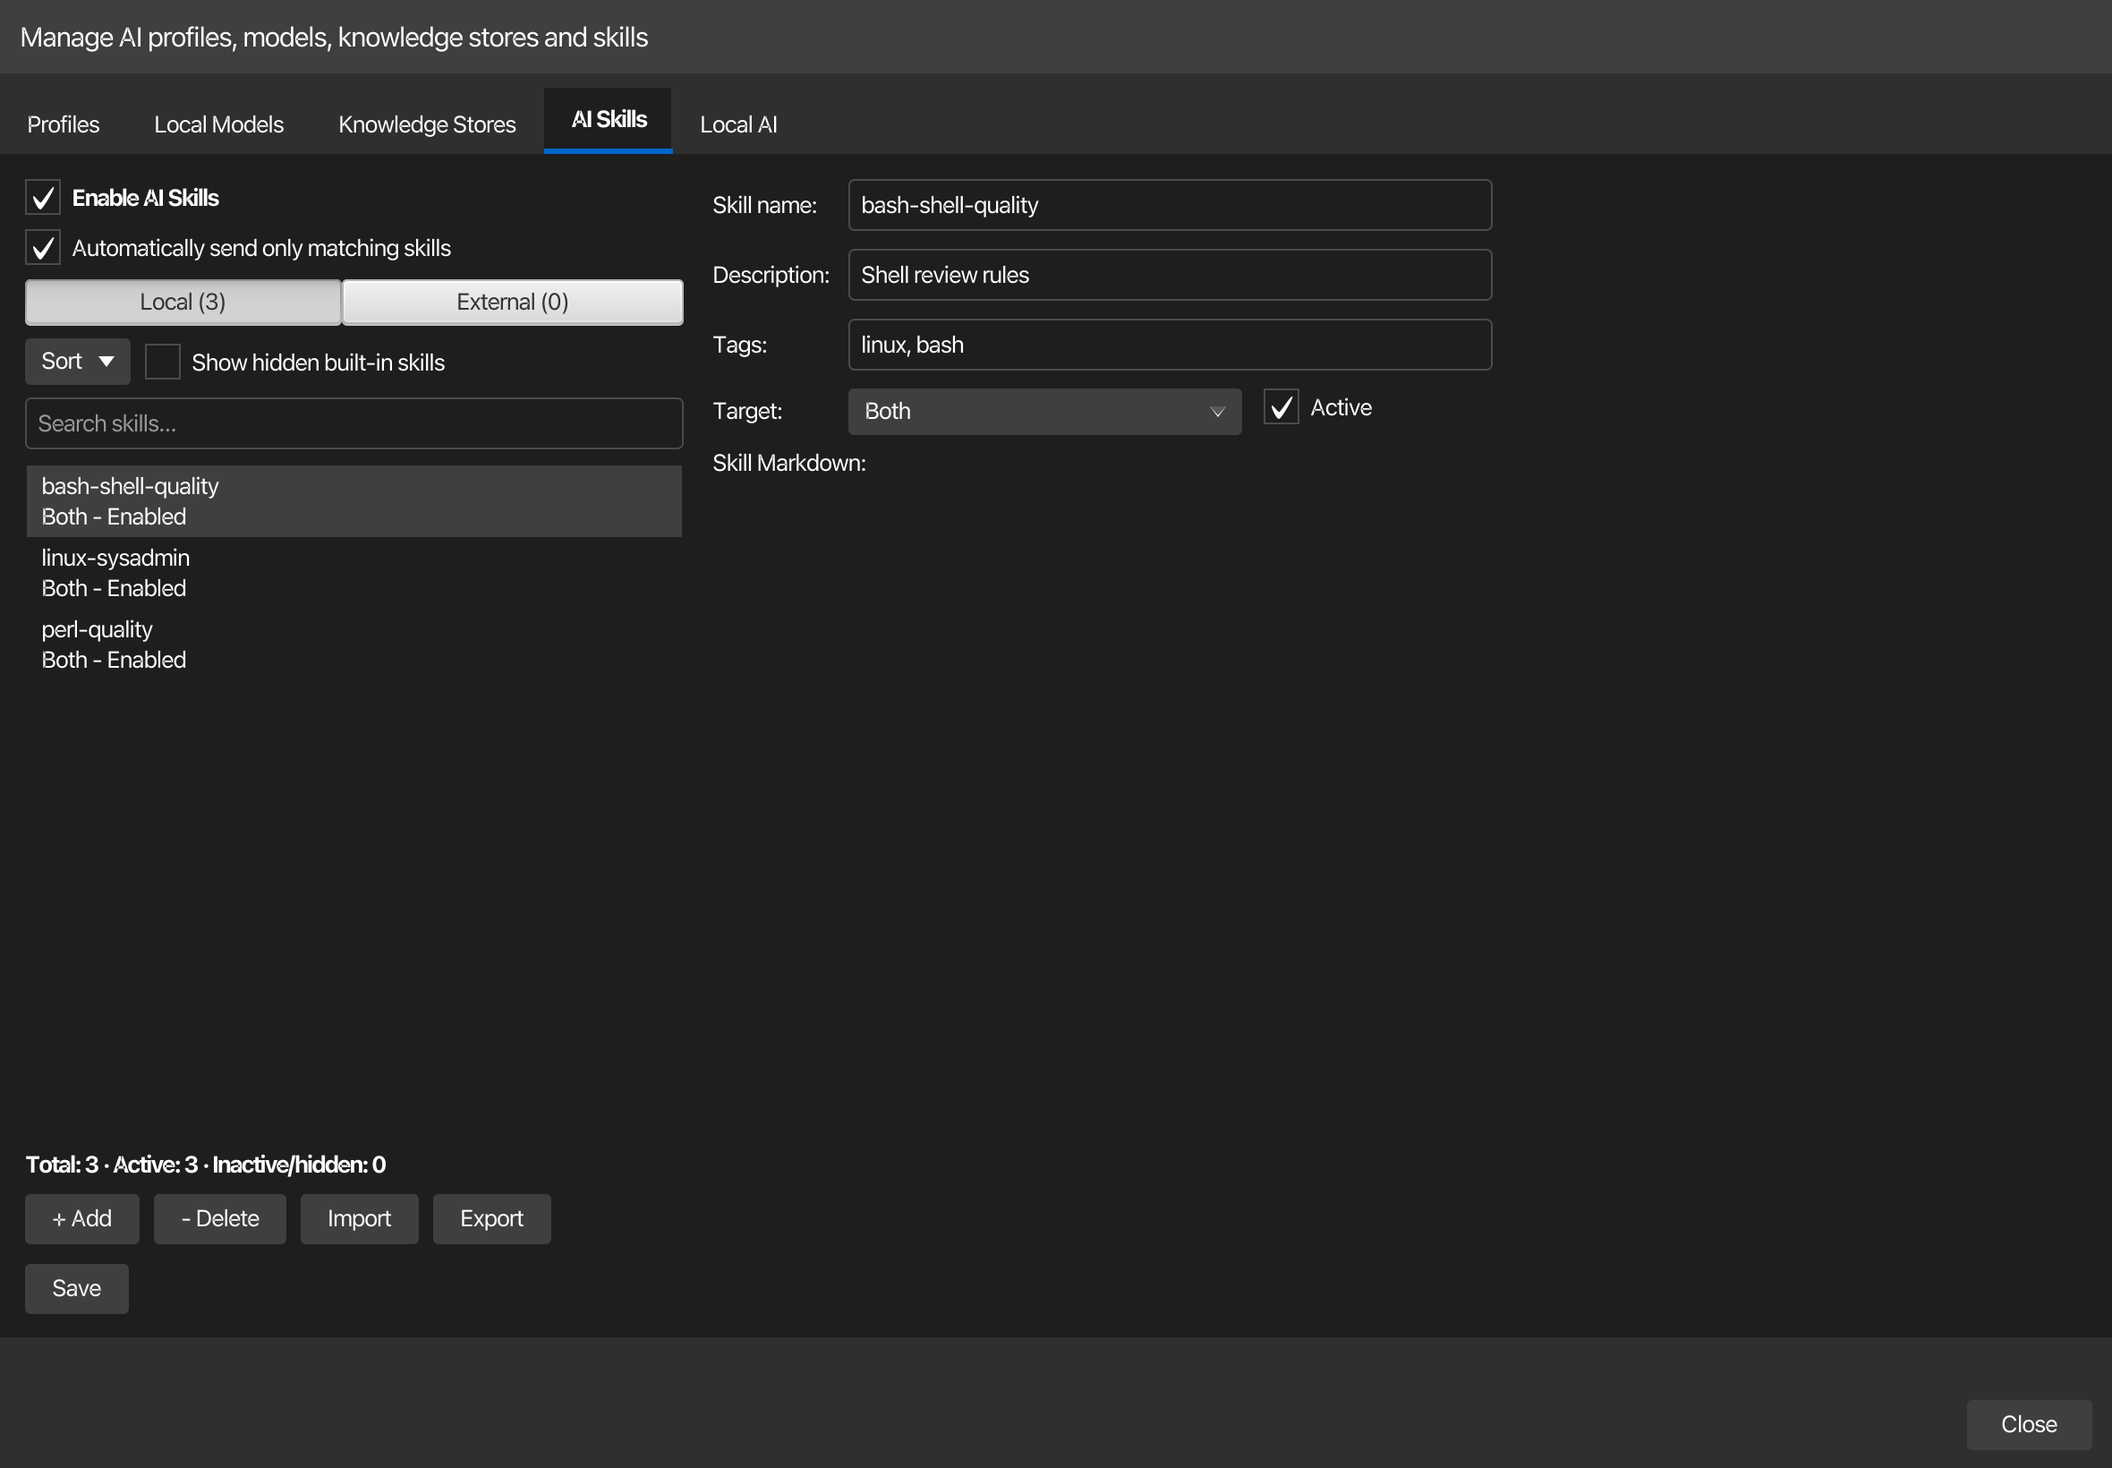
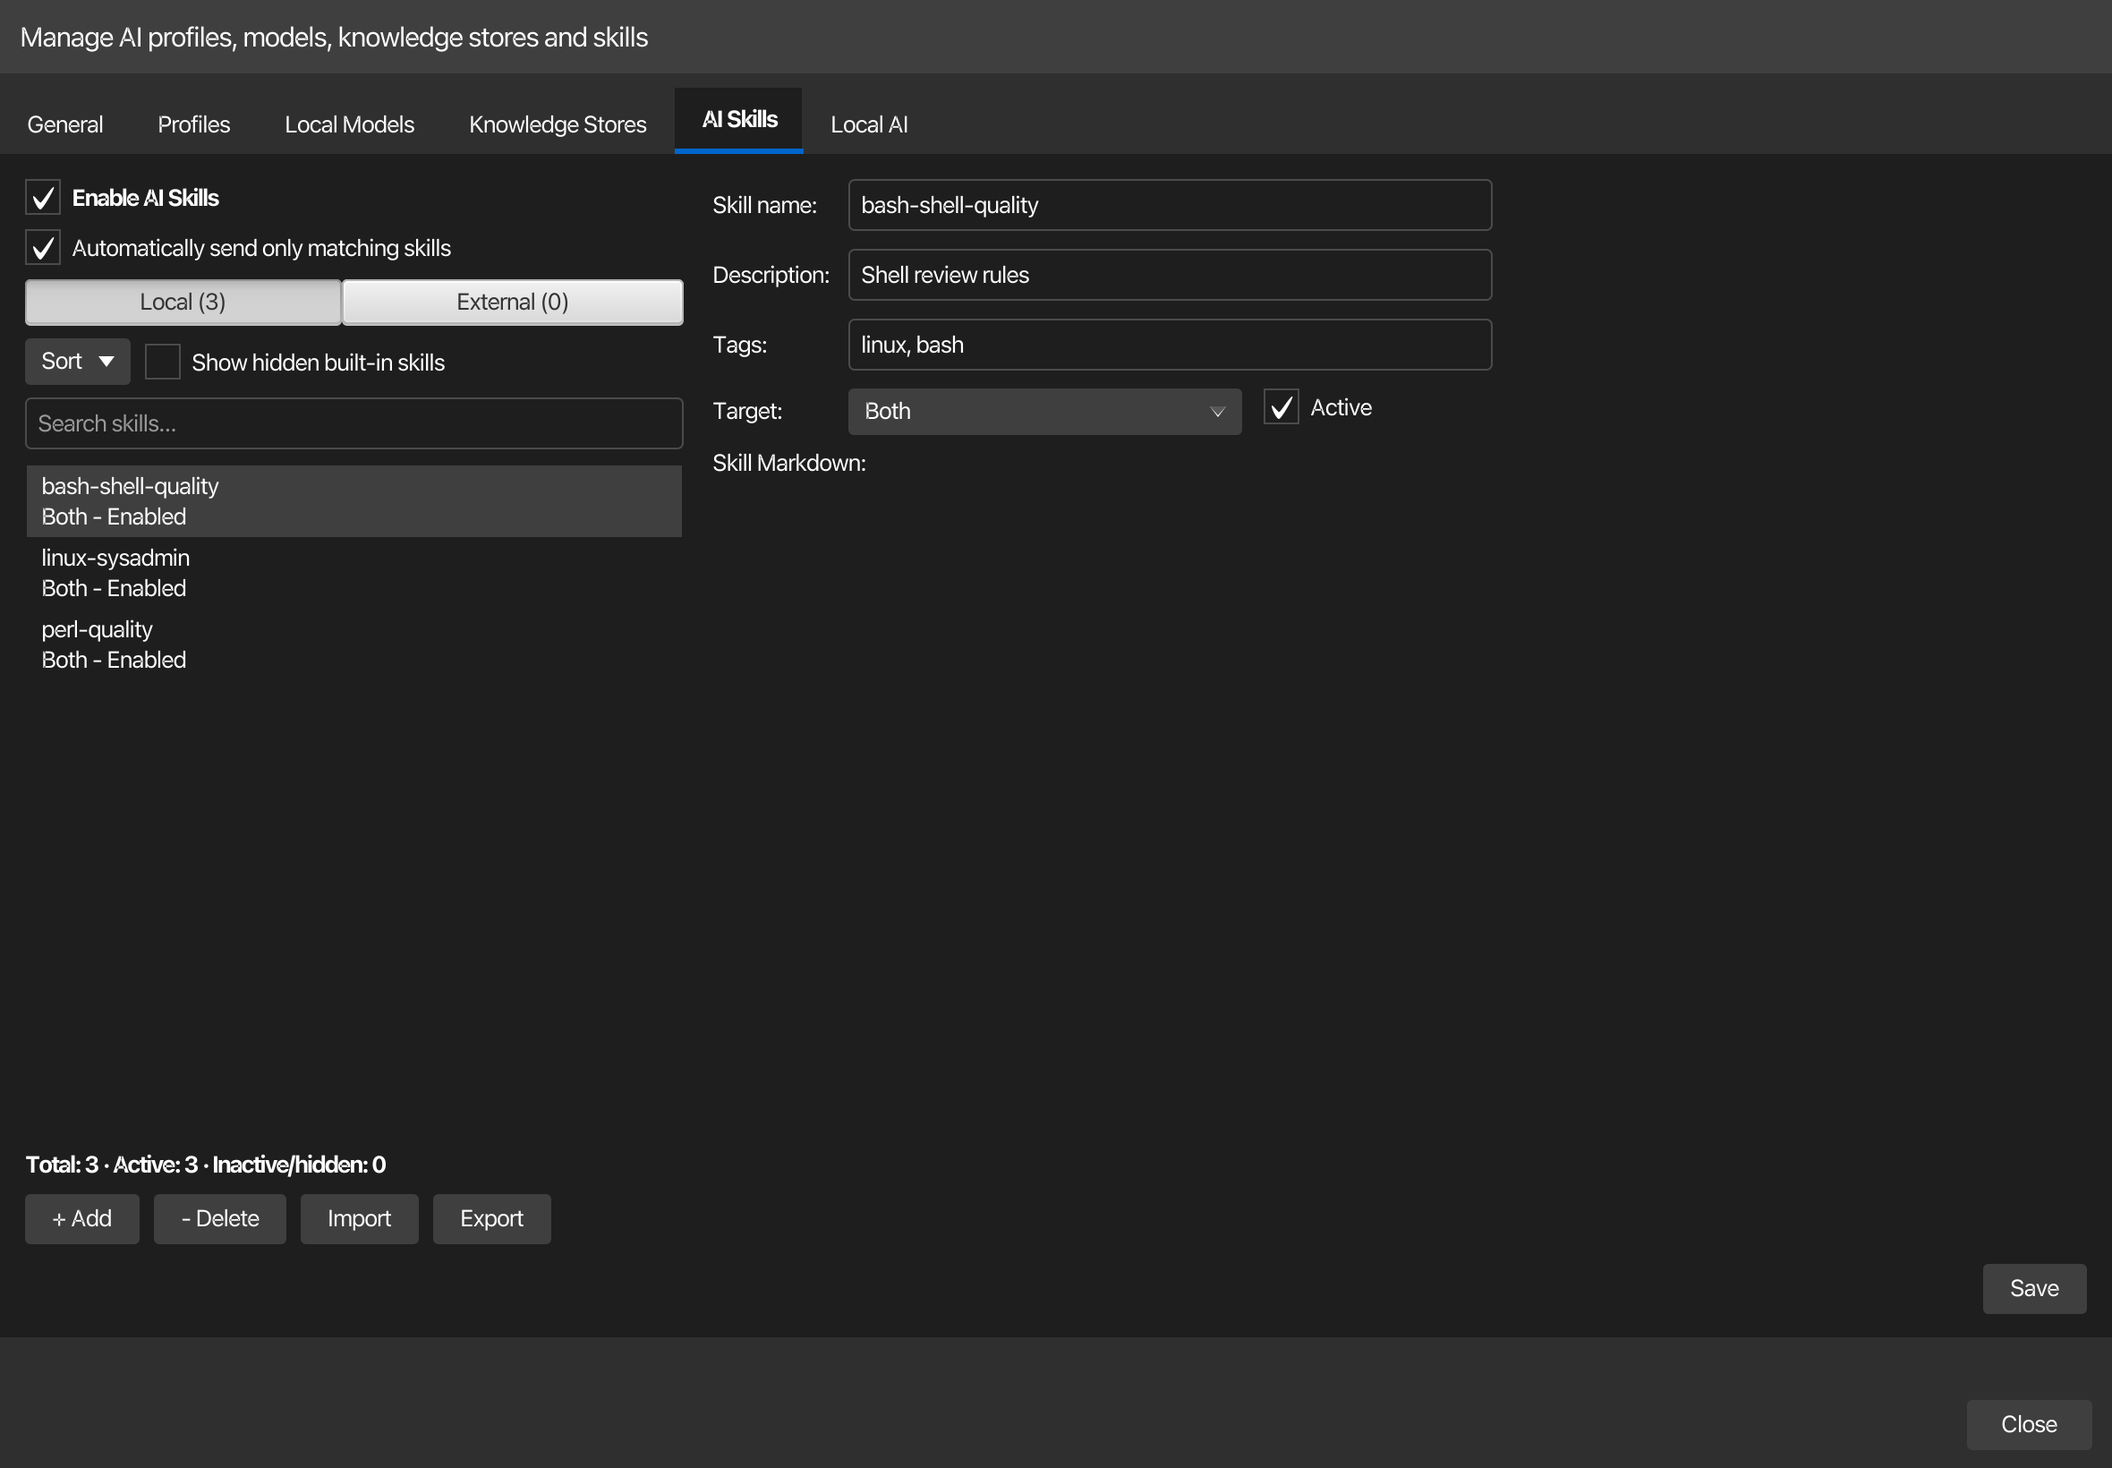
fix(ai): explain what the AI request confirmation covers; Save at the bottom right
The AI Manager's "Show confirmation dialog before sending AI requests"
looked like it governs every AI request, so turning it off and still
getting the terminal agent's setup dialog read as a broken setting. A hint
under the check box now names the terminal context-menu actions it covers
(Summarize, Summarize Recent Output, Solve Problem), says that Ask always
opens its dialog, and points to the Terminal agent tab's own "Show
terminal agent setup dialog before each run". The labels are filled in
from their i18n keys, so the hint stays right in all eight languages.

The Save button of the General, Local AI and AI Skills tabs moves from the
left edge to the bottom right, above the dialog's Close, as the Profiles
editor already places its Save; the status text sits to its left.
AiManagerSections.saveRow builds that row for all three.

Docs: the AI settings page explains the option's scope (German line
generated, plus two glossary rows for the label and the section link).
New AiManagerGeneralTabScreenshotGenerator with the
generateAiManagerGeneralTabScreenshot task regenerates
ai/ai-manager-general.png; settings/ai-skills.png is regenerated too.

diff --git a/src/test/java/de/kortty/ui/AiManagerGeneralTabScreenshotGenerator.java b/src/test/java/de/kortty/ui/AiManagerGeneralTabScreenshotGenerator.java
@@ -1,0 +1,146 @@
+package de.kortty.ui;
+
+import de.kortty.core.LanguageManager;
+import de.kortty.model.GlobalSettings;
+import javafx.application.Platform;
+import javafx.embed.swing.SwingFXUtils;
+import javafx.scene.SnapshotParameters;
+import javafx.scene.control.DialogPane;
+import javafx.scene.control.Tab;
+import javafx.scene.control.TabPane;
+import javafx.scene.image.WritableImage;
+import javafx.scene.paint.Color;
+import javafx.scene.transform.Transform;
+
+import javax.imageio.ImageIO;
+import java.awt.image.BufferedImage;
+import java.io.File;
+import java.io.PrintWriter;
+import java.io.StringWriter;
+import java.nio.file.Files;
+import java.nio.file.Path;
+import java.util.Locale;
+import java.util.concurrent.CountDownLatch;
+import java.util.concurrent.TimeUnit;
+import java.util.concurrent.atomic.AtomicReference;
+
+/**
+ * Offline generator for the manual's AI Manager &rarr; General screenshot.
+ *
+ * <p>Builds the REAL {@link AiManagerDialog} (null owner, isolated {@code user.home}, so every option
+ * shows its default), selects General &rarr; Features &amp; safety and snapshots the dialog pane at 2x
+ * to {@code app-docs/screenshots/ai/ai-manager-general.png}.</p>
+ *
+ * <p>Run via the {@code generateAiManagerGeneralTabScreenshot} Gradle task. Exit 0 = OK.</p>
+ */
+public final class AiManagerGeneralTabScreenshotGenerator {
+
+    private static final double WIDTH = 980;
+    private static final double HEIGHT = 640;
+    private static final String OUTPUT_FILE = "app-docs/screenshots/ai/ai-manager-general.png";
+
+    private AiManagerGeneralTabScreenshotGenerator() {
+    }
+
+    public static void main(String[] args) throws Exception {
+        Path isolatedHome = Files.createTempDirectory("kortty-ai-manager-general-screenshot");
+        System.setProperty("user.home", isolatedHome.toString());
+        Locale.setDefault(Locale.ENGLISH);
+
+        CountDownLatch done = new CountDownLatch(1);
+        AtomicReference<String> failure = new AtomicReference<>();
+
+        Platform.startup(() -> {
+            try {
+                writeScreenshot();
+            } catch (Throwable t) {
+                failure.compareAndSet(null, stack(t));
+            } finally {
+                done.countDown();
+            }
+        });
+
+        boolean finished = done.await(60, TimeUnit.SECONDS);
+        Platform.runLater(Platform::exit);
+        if (!finished) {
+            System.err.println("SCREENSHOT GENERATION TIMEOUT");
+            System.exit(2);
+        }
+        String fail = failure.get();
+        if (fail != null) {
+            System.err.println("SCREENSHOT GENERATION FAILURE: " + fail);
+            System.exit(1);
+        }
+        System.exit(0);
+    }
+
+    private static void writeScreenshot() throws Exception {
+        GlobalSettings settings = new GlobalSettings();
+        settings.setLanguage("en");
+        LanguageManager.getInstance().initialize(settings);
+
+        AiManagerDialog dialog = new AiManagerDialog(null);
+        DialogThemeHelper.applyTheme(dialog);
+        // Without a running application, DialogThemeHelper cannot resolve the terminal theme, so the
+        // dynamic overlay is skipped. Add it from the default settings so the capture matches the app.
+        String dynamicCss = ThemeCssSupport.getDynamicStylesheetUrl(
+            ThemeCssSupport.resolveThemeColors(settings, null));
+        if (dynamicCss != null) {
+            dialog.getDialogPane().getStylesheets().add(dynamicCss);
+        }
+        dialog.show();
+
+        DialogPane pane = dialog.getDialogPane();
+        select(pane, ".ai-manager-primary-navigation", I18n.get("ai.manager.tab.general"));
+        pane.applyCss();
+        pane.layout();
+        select(pane, "." + AiManagerSections.NAVIGATION_STYLE_CLASS, I18n.get("ai.manager.general.section.features"));
+
+        pane.setMinSize(WIDTH, HEIGHT);
+        pane.setPrefSize(WIDTH, HEIGHT);
+        pane.setMaxSize(WIDTH, HEIGHT);
+        pane.applyCss();
+        pane.resize(WIDTH, HEIGHT);
+        pane.layout();
+
+        SnapshotParameters params = new SnapshotParameters();
+        params.setFill(Color.web("#1e1e1e"));
+        params.setTransform(Transform.scale(2, 2)); // match the Retina crispness of the other shots
+        WritableImage image = pane.snapshot(params, null);
+
+        BufferedImage buffered = SwingFXUtils.fromFXImage(image, null);
+        File outFile = new File(OUTPUT_FILE);
+        File parent = outFile.getParentFile();
+        if (parent != null && !parent.isDirectory() && !parent.mkdirs()) {
+            throw new IllegalStateException("Cannot create output dir: " + parent.getAbsolutePath());
+        }
+        ImageIO.write(buffered, "png", outFile);
+        System.out.println("Generated " + outFile.getAbsolutePath()
+            + " (" + buffered.getWidth() + "x" + buffered.getHeight() + ")");
+        dialog.close();
+    }
+
+    /**
+     * Selects the tab titled {@code title} in whichever tab strip carrying {@code selector} has it: every
+     * AI Manager section that was built has its own strip with the same style class.
+     */
+    private static void select(DialogPane pane, String selector, String title) {
+        for (javafx.scene.Node node : pane.lookupAll(selector)) {
+            if (node instanceof TabPane tabPane) {
+                for (Tab tab : tabPane.getTabs()) {
+                    if (title.equals(tab.getText())) {
+                        tabPane.getSelectionModel().select(tab);
+                        return;
+                    }
+                }
+            }
+        }
+        throw new IllegalStateException("Tab " + title + " not found in " + selector);
+    }
+
+    private static String stack(Throwable t) {
+        StringWriter writer = new StringWriter();
+        t.printStackTrace(new PrintWriter(writer));
+        return writer.toString();
+    }
+}

diff --git a/src/main/java/de/kortty/ui/AiGeneralSettingsPane.java b/src/main/java/de/kortty/ui/AiGeneralSettingsPane.java
@@ -101,9 +101,7 @@ final class AiGeneralSettingsPane extends VBox {
         save.setOnAction(event -> save(false));
         status.setWrapText(true);
         status.setStyle(MutedTextStyle.HINT);
-        HBox actions = new HBox(10, save, status);
-        actions.setAlignment(Pos.CENTER_LEFT);
-        getChildren().addAll(sections, actions);
+        getChildren().addAll(sections, AiManagerSections.saveRow(save, status));
     }
 
     private GlobalSettings settings() {
@@ -144,6 +142,11 @@ final class AiGeneralSettingsPane extends VBox {
         AiManagerSections.addFieldRow(grid, hint("settings.ai.info"));
         AiManagerSections.addSeparator(grid);
         AiManagerSections.addFieldRow(grid, confirmBeforeSend);
+        // Which requests the confirmation covers, and where the terminal agent's own dialog is turned off.
+        AiManagerSections.addFieldRow(grid, hint("settings.ai.confirmBeforeSend.hint",
+            I18n.get("terminal.contextMenu.ai.summarize"), I18n.get("terminal.contextMenu.ai.summarizeRecent"),
+            I18n.get("terminal.contextMenu.ai.solve"), I18n.get("terminal.contextMenu.ai.ask"),
+            I18n.get("ai.manager.general.section.agent"), I18n.get("settings.ai.terminalAgentShowRunDialog")));
         AiManagerSections.addRow(grid, "settings.ai.chatTerminalActions", chatTerminalActions);
         AiManagerSections.addSeparator(grid);
         AiManagerSections.addFieldRow(grid, showDebugMessages);
@@ -294,8 +297,8 @@ final class AiGeneralSettingsPane extends VBox {
         return row;
     }
 
-    private static Label hint(String key) {
-        Label label = new Label(I18n.get(key));
+    private static Label hint(String key, Object... args) {
+        Label label = new Label(I18n.get(key, args));
         label.setWrapText(true);
         label.setMinHeight(Region.USE_PREF_SIZE);
         label.setMaxWidth(560);

diff --git a/src/main/java/de/kortty/ui/AiManagerSections.java b/src/main/java/de/kortty/ui/AiManagerSections.java
@@ -1,7 +1,9 @@
 package de.kortty.ui;
 
 import javafx.geometry.Insets;
+import javafx.geometry.Pos;
 import javafx.scene.Node;
+import javafx.scene.control.Button;
 import javafx.scene.control.Label;
 import javafx.scene.control.ScrollPane;
 import javafx.scene.control.Separator;
@@ -9,9 +11,11 @@ import javafx.scene.control.Tab;
 import javafx.scene.control.TabPane;
 import javafx.scene.layout.ColumnConstraints;
 import javafx.scene.layout.GridPane;
+import javafx.scene.layout.HBox;
 import javafx.scene.layout.Priority;
 import javafx.scene.layout.Region;
 import javafx.scene.layout.VBox;
+import javafx.scene.text.TextAlignment;
 
 /**
  * The secondary tab strip inside an AI Manager section (the Profiles editor, Local AI) and the
@@ -72,5 +76,19 @@ final class AiManagerSections {
 
     static void addSeparator(GridPane grid) {
         grid.add(new Separator(), 0, grid.getRowCount(), 2, 1);
+    }
+
+    /**
+     * The row under a section's pages: its status text, then {@code save} at the right edge, above the
+     * dialog's Close button, as the Profiles editor places its Save.
+     */
+    static HBox saveRow(Button save, Label status) {
+        status.setMaxWidth(Double.MAX_VALUE);
+        status.setAlignment(Pos.CENTER_RIGHT);
+        status.setTextAlignment(TextAlignment.RIGHT);
+        HBox.setHgrow(status, Priority.ALWAYS);
+        HBox row = new HBox(10, status, save);
+        row.setAlignment(Pos.CENTER_RIGHT);
+        return row;
     }
 }

diff --git a/src/main/java/de/kortty/ui/AiLocalPreferencesPane.java b/src/main/java/de/kortty/ui/AiLocalPreferencesPane.java
@@ -7,7 +7,6 @@ import de.kortty.model.GlobalSettings;
 import de.kortty.model.LlamaRuntimeUpdatePolicy;
 import de.kortty.security.EncryptionService;
 import javafx.geometry.Insets;
-import javafx.geometry.Pos;
 import javafx.scene.control.Button;
 import javafx.scene.control.CheckBox;
 import javafx.scene.control.ComboBox;
@@ -16,7 +15,6 @@ import javafx.scene.control.PasswordField;
 import javafx.scene.control.TabPane;
 import javafx.scene.control.TextField;
 import javafx.scene.layout.GridPane;
-import javafx.scene.layout.HBox;
 import javafx.scene.layout.Priority;
 import javafx.scene.layout.Region;
 import javafx.scene.layout.VBox;
@@ -126,10 +124,7 @@ final class AiLocalPreferencesPane extends VBox {
         ButtonIcons.apply(save, ButtonIcons.SAVE);
         status.setWrapText(true);
         status.setStyle(MutedTextStyle.HINT);
-        HBox actions = new HBox(10, save, status);
-        actions.setAlignment(Pos.CENTER_LEFT);
-        HBox.setHgrow(status, Priority.ALWAYS);
-        getChildren().addAll(sections, actions);
+        getChildren().addAll(sections, AiManagerSections.saveRow(save, status));
         refresh(List.of());
     }
 

diff --git a/src/main/java/de/kortty/ui/AiSkillsPane.java b/src/main/java/de/kortty/ui/AiSkillsPane.java
@@ -398,9 +398,8 @@ final class AiSkillsPane extends VBox {
         saveButton.setOnAction(event -> save());
         statusLabel.setWrapText(true);
         statusLabel.setStyle("-fx-font-size: 0.8462em;");
-        HBox actionBar = new HBox(8, saveButton, statusLabel);
 
-        getChildren().addAll(aiSkillsContent, actionBar);
+        getChildren().addAll(aiSkillsContent, AiManagerSections.saveRow(saveButton, statusLabel));
 
         aiSkillListView.getSelectionModel().selectedItemProperty().addListener((obs, oldValue, newValue) -> {
             snapshotSelectedAiSkillEditorState();

diff --git a/app-docs/site/docs/de/reference/settings/ai.md b/app-docs/site/docs/de/reference/settings/ai.md
@@ -29,6 +29,8 @@ Die Tabellen unten listen jede Einstellung dieser Abschnitte mit ihrem gespeiche
 | Bestätigungsdialog vor Absendung von KI-Anfragen anzeigen | Schalter | — | Ein | `aiConfirmBeforeSend` |
 | KI-Chat-Codeblöcke im Terminal | Dropdown | Aus (nur kopieren und speichern), Nur Einfügen, Einfügen und Ausführen | Einfügen und Ausführen | `aiChatTerminalActions` |
 
+Wenn **Bestätigungsdialog vor dem Senden an die KI anzeigen** aktiviert ist, zeigen **Zusammenfassen**, **Letzte Ausgabe zusammenfassen** und **Problem lösen** im **KI**-Kontextmenü des Terminals an, was sie an die KI senden, und warten auf eine Bestätigung. **Fragen** öffnet immer seinen Dialog, da die Frage dort eingegeben wird. Der Terminal-Agent hat vor jedem Start einen eigenen Dialog; er wird über **Terminal-Agent-Abfrage vor jedem Start anzeigen** unter [KI-Agent im Terminal](#ki-agent-im-terminal) deaktiviert.
+
 **KI-Chat-Codeblöcke im Terminal** legt fest, welche Schaltflächen die Codeblöcke eines KI-Chats anbieten: **Einfügen** gibt einen Block an der Eingabeaufforderung eines Terminalbereichs ein, ohne Enter zu drücken, und **Ausführen** führt eine einzelne Shell-Befehlszeile nach einer Bestätigung aus. Die Unternehmensrichtlinie kann nur weitere Schaltflächen wegnehmen. Siehe [Codeblöcke im Terminal](../../features/ai-assistant.md#codeblocke-im-terminal).
 
 ## KI-Agent im Terminal

diff --git a/app-docs/site/docs/en/reference/settings/ai.md b/app-docs/site/docs/en/reference/settings/ai.md
@@ -29,6 +29,8 @@ The tables below list every setting of these sections with its stored key.
 | Show confirmation dialog before sending AI requests | toggle | — | On | `aiConfirmBeforeSend` |
 | AI chat code blocks in the terminal | dropdown | Off (copy and save only), Insert only, Insert and Run | Insert and Run | `aiChatTerminalActions` |
 
+With **Show confirmation dialog before sending AI requests** on, **Summarize**, **Summarize Recent Output** and **Solve Problem** in the terminal's **AI** context menu show what they send to the AI and wait for a confirmation. **Ask** always opens its dialog, because the question is typed there. The terminal agent has a dialog of its own before each run; it is turned off with **Show terminal agent setup dialog before each run** under [Terminal AI Agent](#terminal-ai-agent).
+
 **AI chat code blocks in the terminal** decides which buttons the code blocks of an AI chat offer: **Insert** types a block at the prompt of a terminal pane without pressing Enter, and **Run** runs a single shell command line after a confirmation. The enterprise policy can only take more away. See [Code blocks in the terminal](../../features/ai-assistant.md#code-blocks-in-the-terminal).
 
 ## Terminal AI Agent
